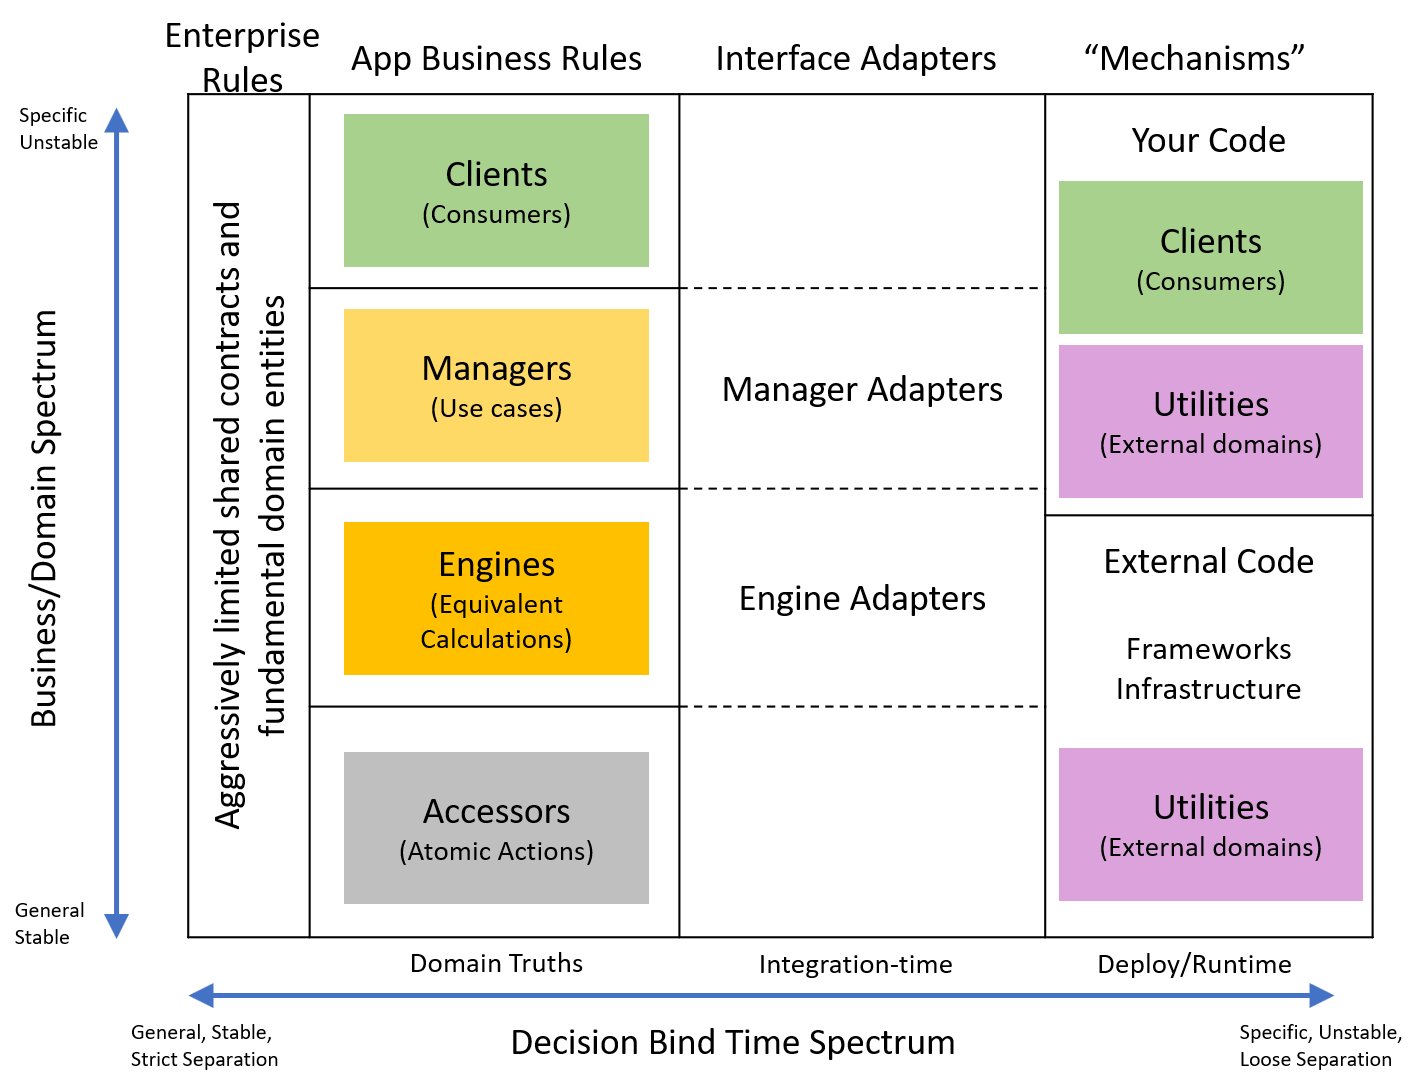
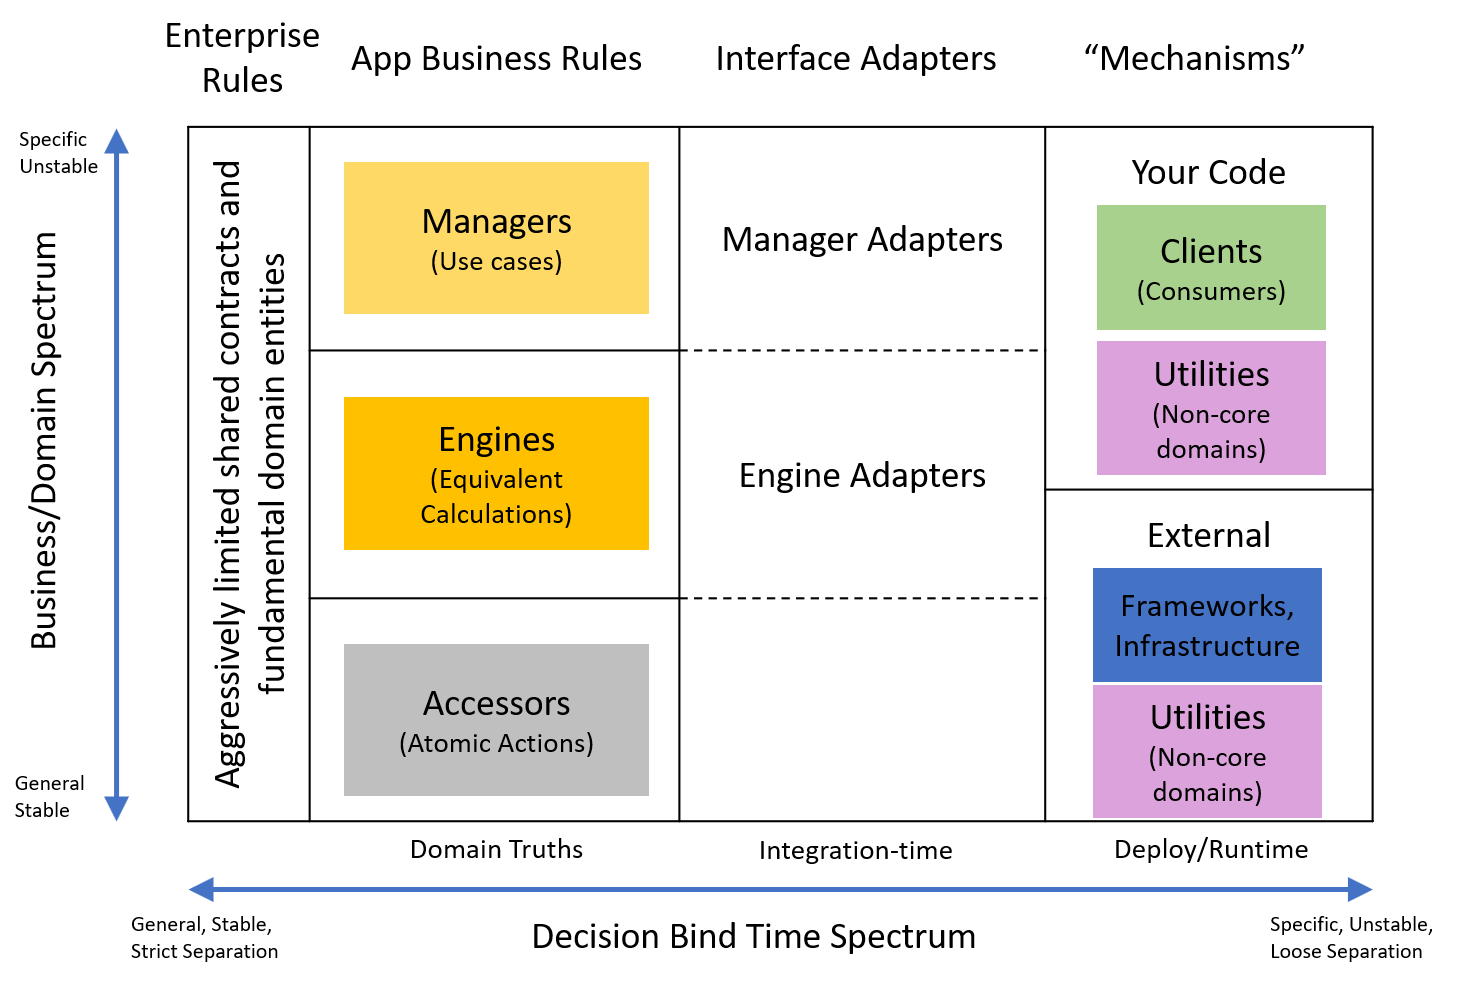
Remove clients from domain truths column

Changed region(s): [[0.0926, 0.0, 0.9874, 0.9786], [0.0, 0.0917, 0.0926, 0.8869]]

diff --git a/_drafts/2020-08-06-Solid-Structure-Refined.md b/_drafts/2020-08-06-Solid-Structure-Refined.md
@@ -59,7 +59,7 @@ Here are the Clean Architecture layers, but with more specificity to mesh with t
 - *Enterprise Rules / Shared Contracts and Entities*: These should only be the most fundamental and unchanging abstactions. For example, not every service needs it's own logging interface. Should be abstractions that could be shared between all company applications. 
 
 TODO need to re-evaluate this layer because clean arch has no frameworks in the logic layer
-- *Application Business Rules / Domain Truths*: The classic IDesign layers that encode the core domain. Should not directly reference external domain like utilities. May contain some limited frameworks for defining the business flows. Should never change for differences in scale or deployment. Each service should be self-contained.
+- *Application Business Rules / Domain Truths*: The classic IDesign layers that encode the core domain. Should not directly reference external domain like utilities. May contain some limited frameworks for defining the business flows (i.e. rules engine?). Should never change for differences in scale or deployment. Each service should be self-contained.
 - *Adapters*: Fulfills the domain dependency abstractions. May map to a lower-layer domain service or to a utility/external service. This is where decisions of scale like event systems, communication protocols, and remote calls are made. Also likely binds flexibility concerns like email or identity systems business people can manage.
 - *Clients, Frameworks, and drivers*: Determines the final mix of adapters needed to deliver a running product. These are the assemblies that will be deployed to concrete infrastructure. Responsible for configuring concrete resources like databases, log stores, files stores, etc. 
 
